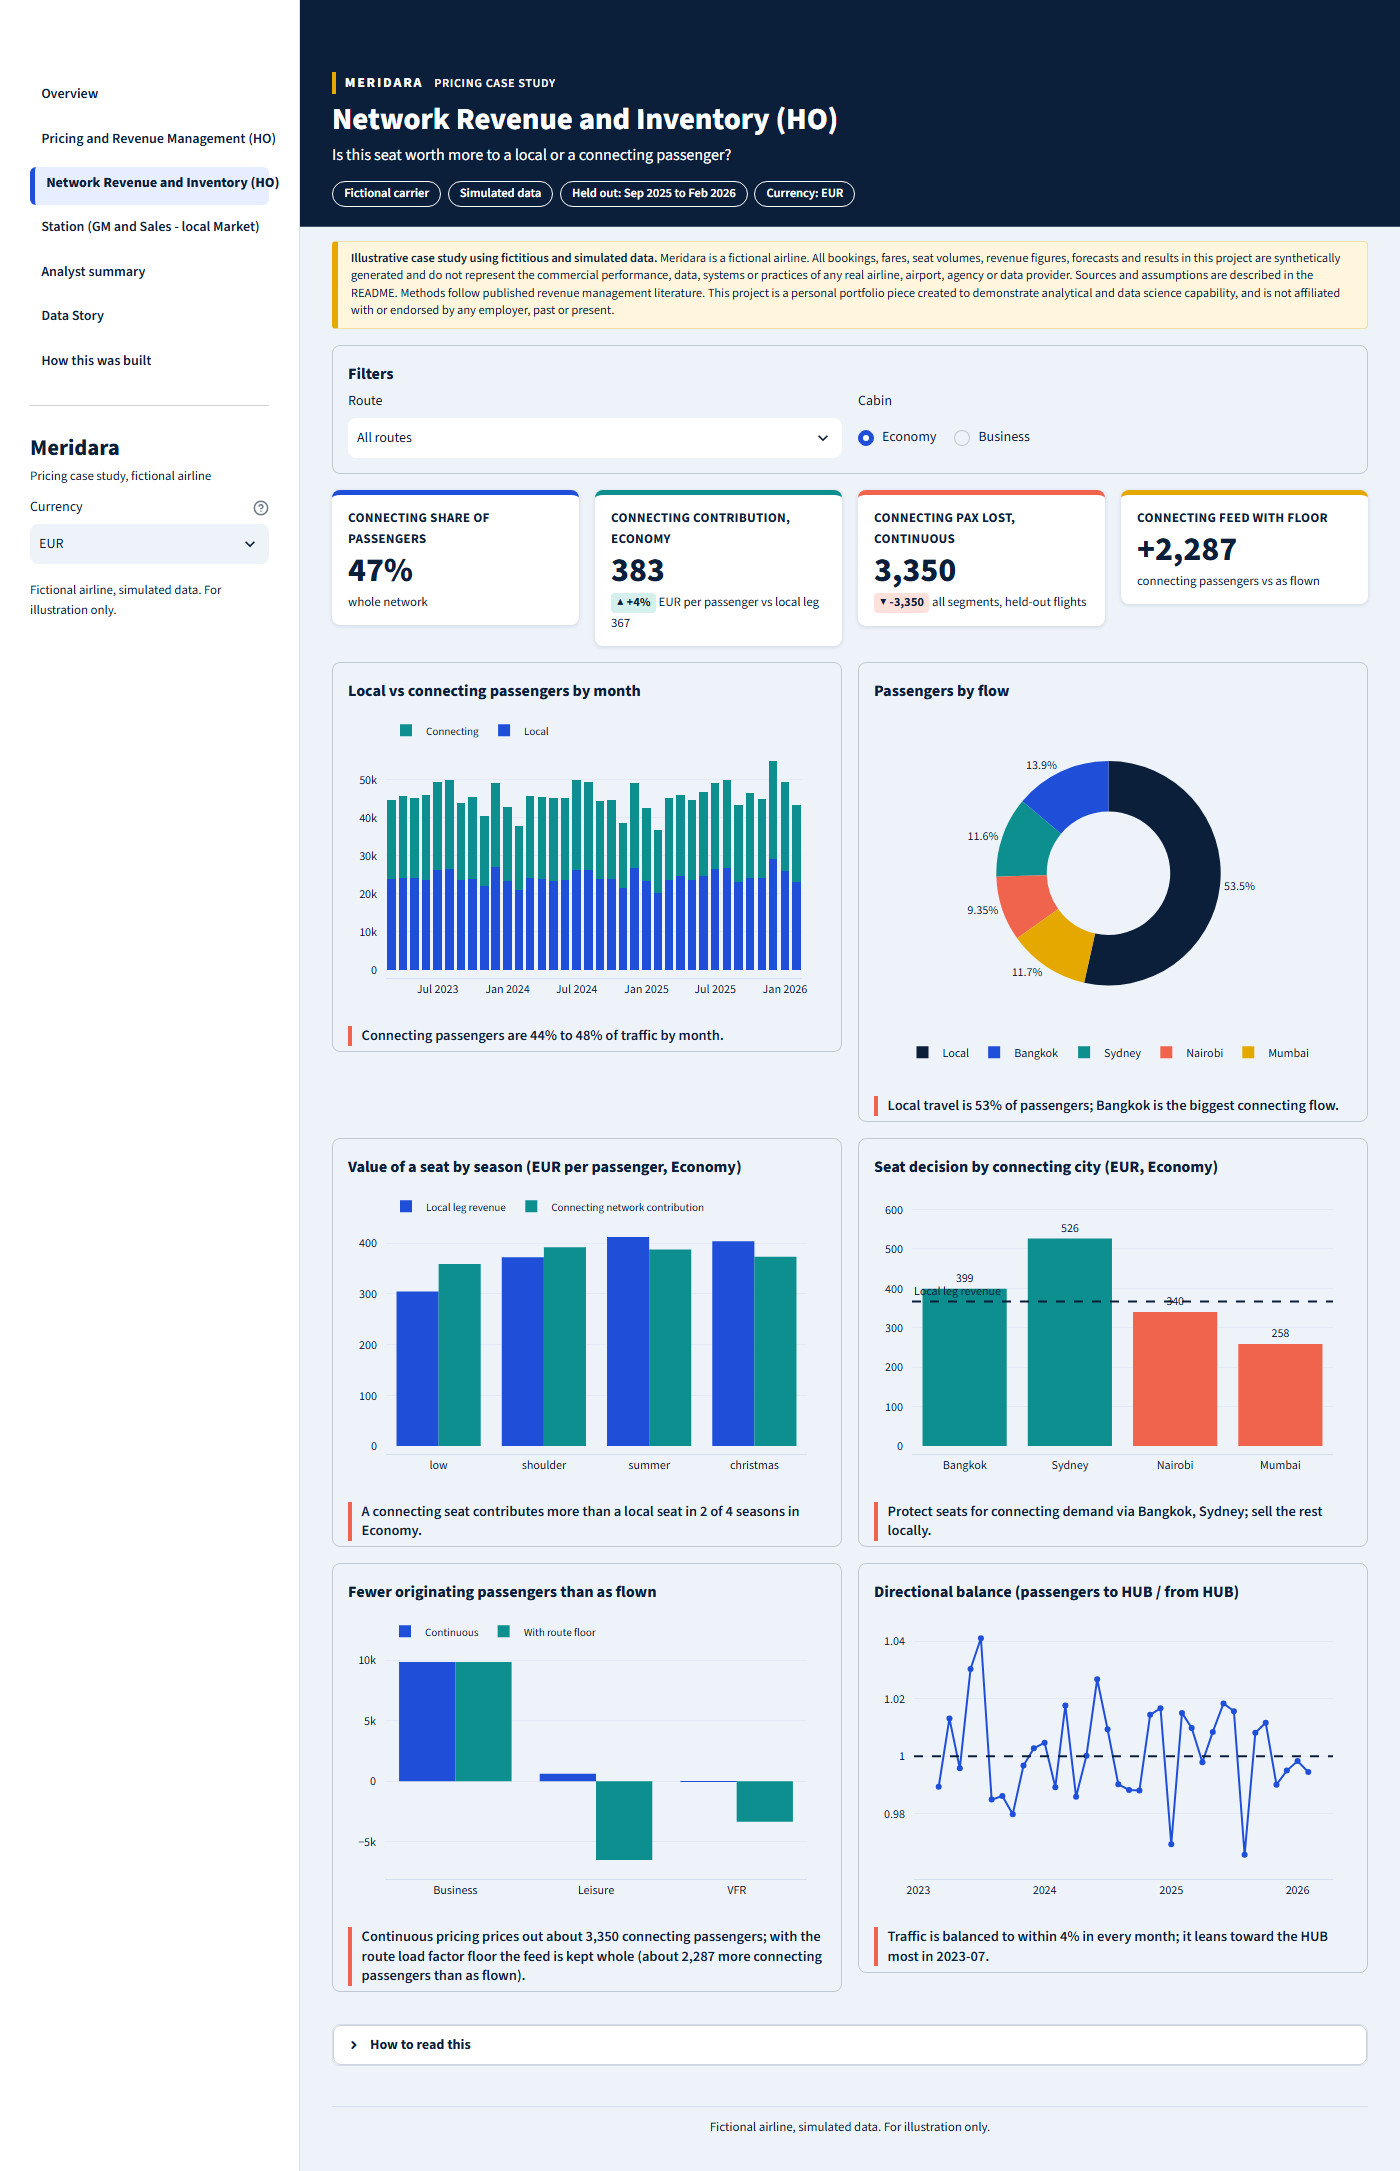
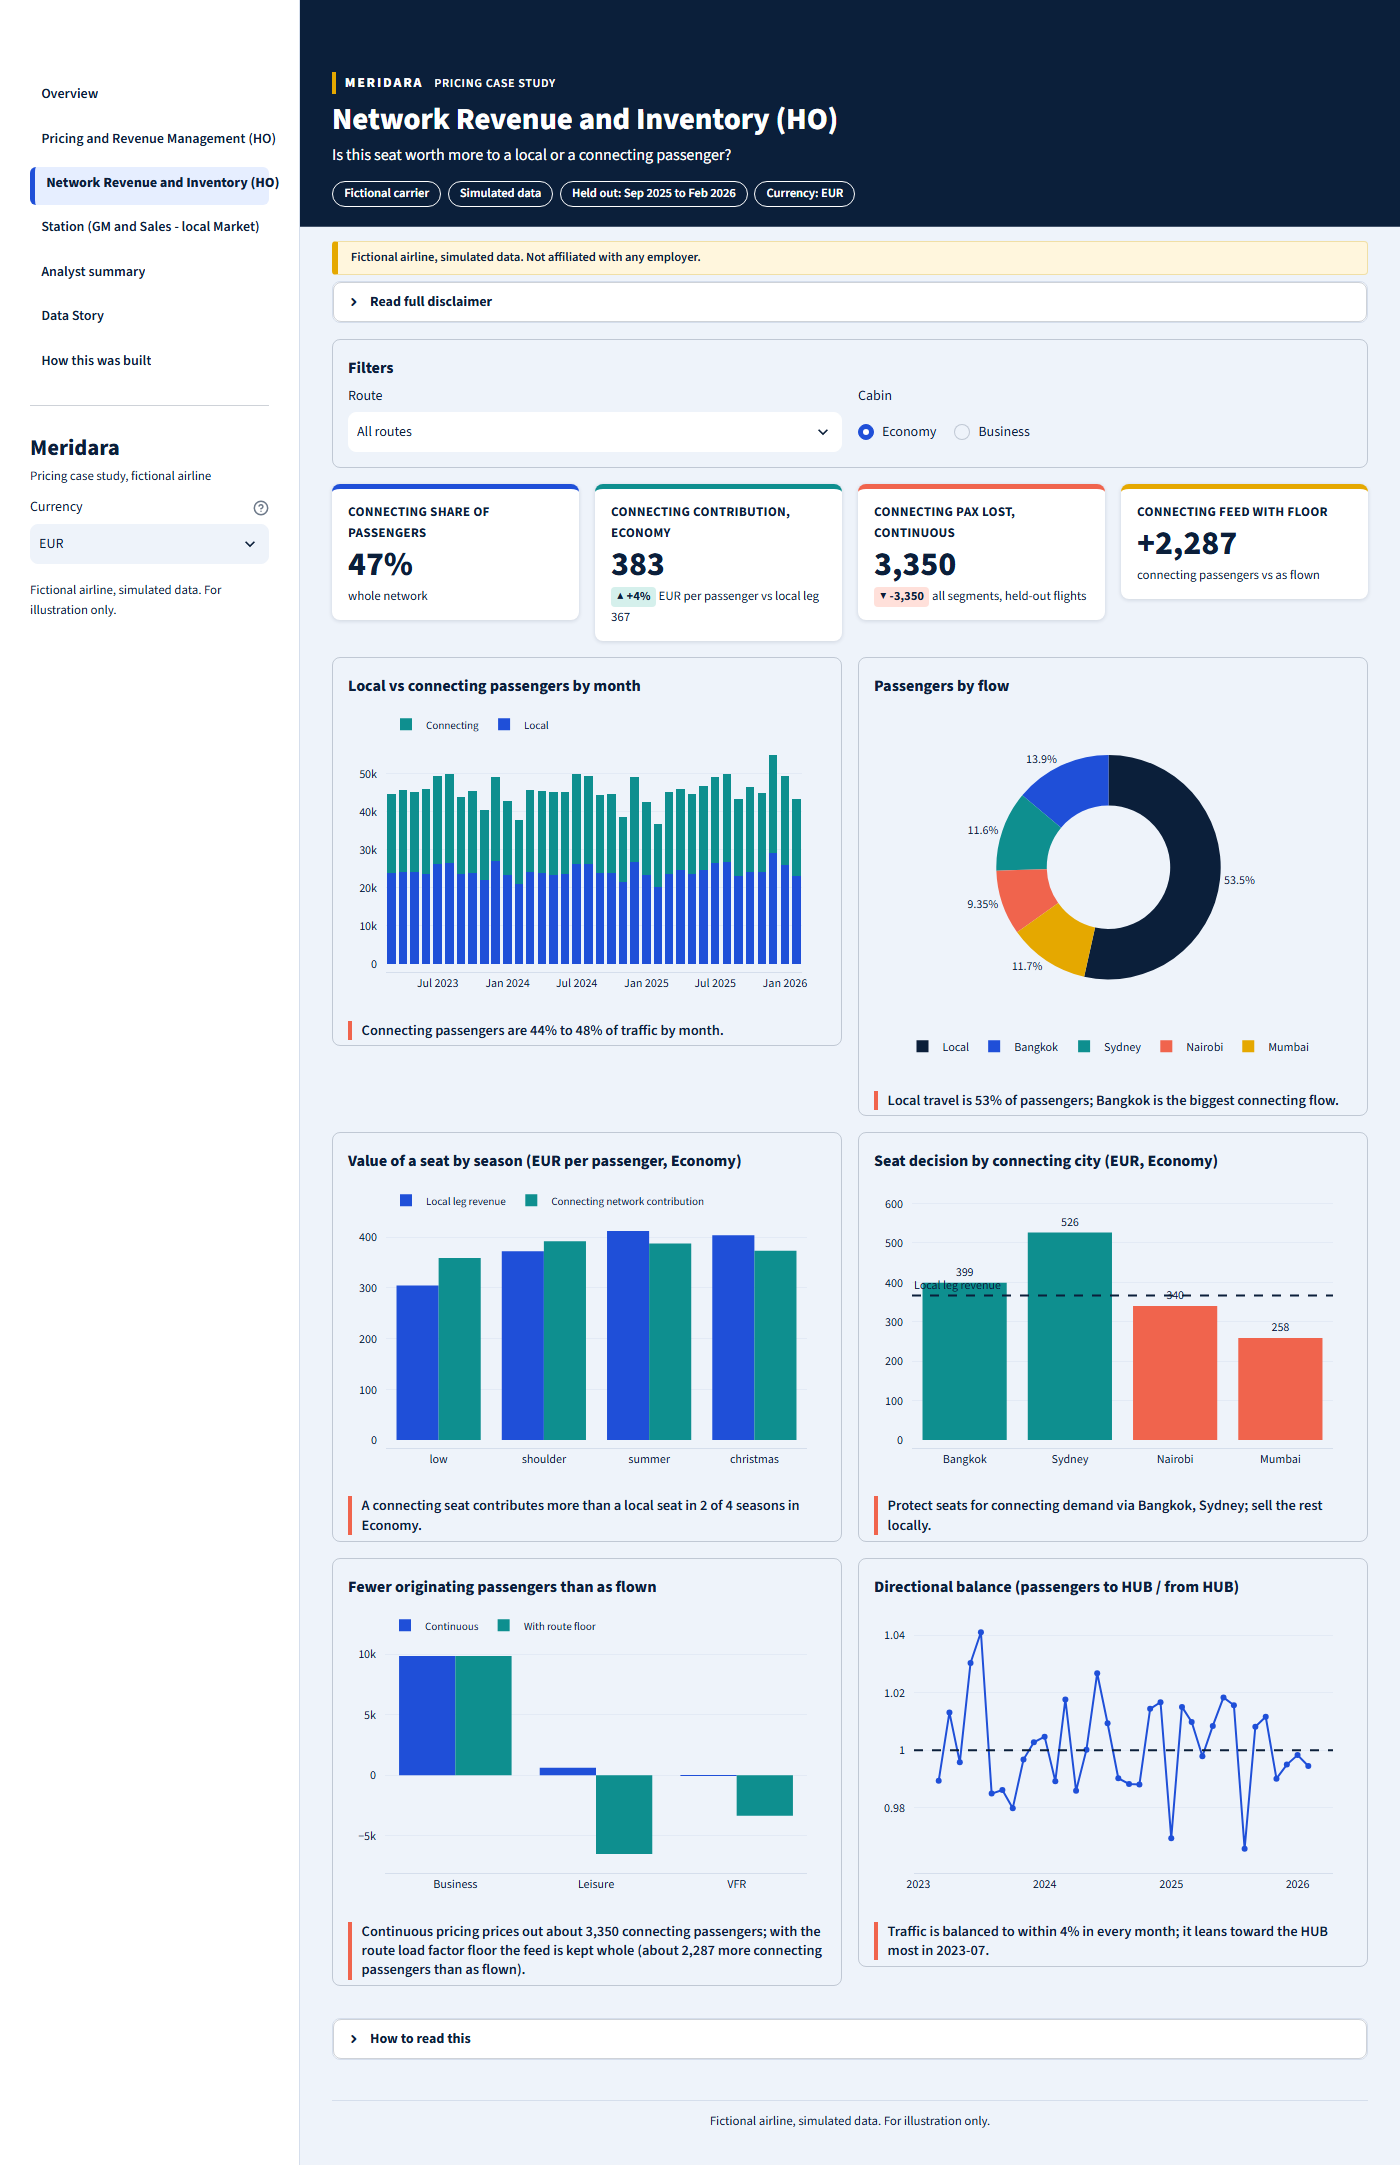
One-line disclaimer with expander on all pages except Overview; refresh screenshots

diff --git a/app/common.py b/app/common.py
@@ -25,6 +25,7 @@ DISCLAIMER = (
     "with or endorsed by any employer, past or present."
 )
 SHORT_DISCLAIMER = "Fictional airline, simulated data. For illustration only."
+DISCLAIMER_LINE = "<b>Fictional airline, simulated data. Not affiliated with any employer.</b>"
 
 # Palette: navy text and header, royal blue and teal as main accents, coral for highlights, amber for small touches.
 NAVY, ROYAL, TEAL, CORAL, AMBER = "#0B1F3A", "#1F4FD8", "#0E8F8F", "#F0644D", "#E5A800"
@@ -186,8 +187,8 @@ def pct(x, signed=False, digits=1):
     return f"{x:+.{digits}f}%" if signed else f"{x:.{digits}f}%"
 
 
-def hero(title, question, cur=None):
-    """Navy header band: title and question on the left, small pills on the right, then the disclaimer."""
+def hero(title, question, cur=None, full=False):
+    """Navy header band: title and question on the left, small pills on the right, then the disclaimer (full on the Overview, a one-line version with an expander elsewhere)."""
     pills = ["Fictional carrier", "Simulated data", "Held out: Sep 2025 to Feb 2026"]
     if cur:
         pills.append(f"Currency: {cur}")
@@ -196,7 +197,12 @@ def hero(title, question, cur=None):
                 f'<div class="hero-title">{title}</div>'
                 f'<div class="hero-q">{question}</div></div><div class="hero-pills">{pill_html}</div></div>',
                 unsafe_allow_html=True)
-    st.markdown(f'<div class="disclaimer">{DISCLAIMER}</div>', unsafe_allow_html=True)
+    if full:
+        st.markdown(f'<div class="disclaimer">{DISCLAIMER}</div>', unsafe_allow_html=True)
+    else:
+        st.markdown(f'<div class="disclaimer disclaimer-short">{DISCLAIMER_LINE}</div>', unsafe_allow_html=True)
+        with st.expander("Read full disclaimer"):
+            st.markdown(f'<div class="disclaimer-full">{DISCLAIMER}</div>', unsafe_allow_html=True)
 
 
 def kpi_row(items):
@@ -296,6 +302,8 @@ html, body, [data-testid="stMain"], section.main {{ scroll-padding-top: 4rem; }}
 .disclaimer {{ background: #FFF6DD; border: 1px solid #F0DFA6; border-left: 6px solid {AMBER}; color: {NAVY};
                padding: 0.5rem 0.8rem; font-size: 0.78rem; line-height: 1.4; border-radius: 4px; margin: 0 0 1rem 0; }}
 .disclaimer b {{ color: {NAVY}; }}
+.disclaimer-short {{ padding: 0.45rem 0.8rem; margin-bottom: 0.4rem; }}
+.disclaimer-full {{ color: {NAVY}; font-size: 0.85rem; line-height: 1.45; }}
 
 /* KPI cards: white, coloured top border, bold number, delta badge */
 .kpi {{ background: #FFFFFF; border-radius: 8px; border-top: 5px solid {ROYAL}; padding: 0.75rem 1rem 0.8rem 1rem;

diff --git a/app/views/overview.py b/app/views/overview.py
@@ -13,7 +13,7 @@ def render(cur):
     s, obs, bk, ct, lf = h["s"], h["obs"], h["bk"], h["ct"], h["lf"]
     cal = c.calibration()
     tr = cal["training"]
-    c.hero("From Fare Buckets to Continuous Pricing", "Pricing the Europe to Asia corridor at a hub carrier", cur)
+    c.hero("From Fare Buckets to Continuous Pricing", "Pricing the Europe to Asia corridor at a hub carrier", cur, full=True)
 
     c.kpi_row([
         ("Continuous vs validated buckets", f"{h['gain_bk']:+.1f}%", f"{c.money(ct.revenue, cur)} vs {c.money(bk.revenue, cur)}",
